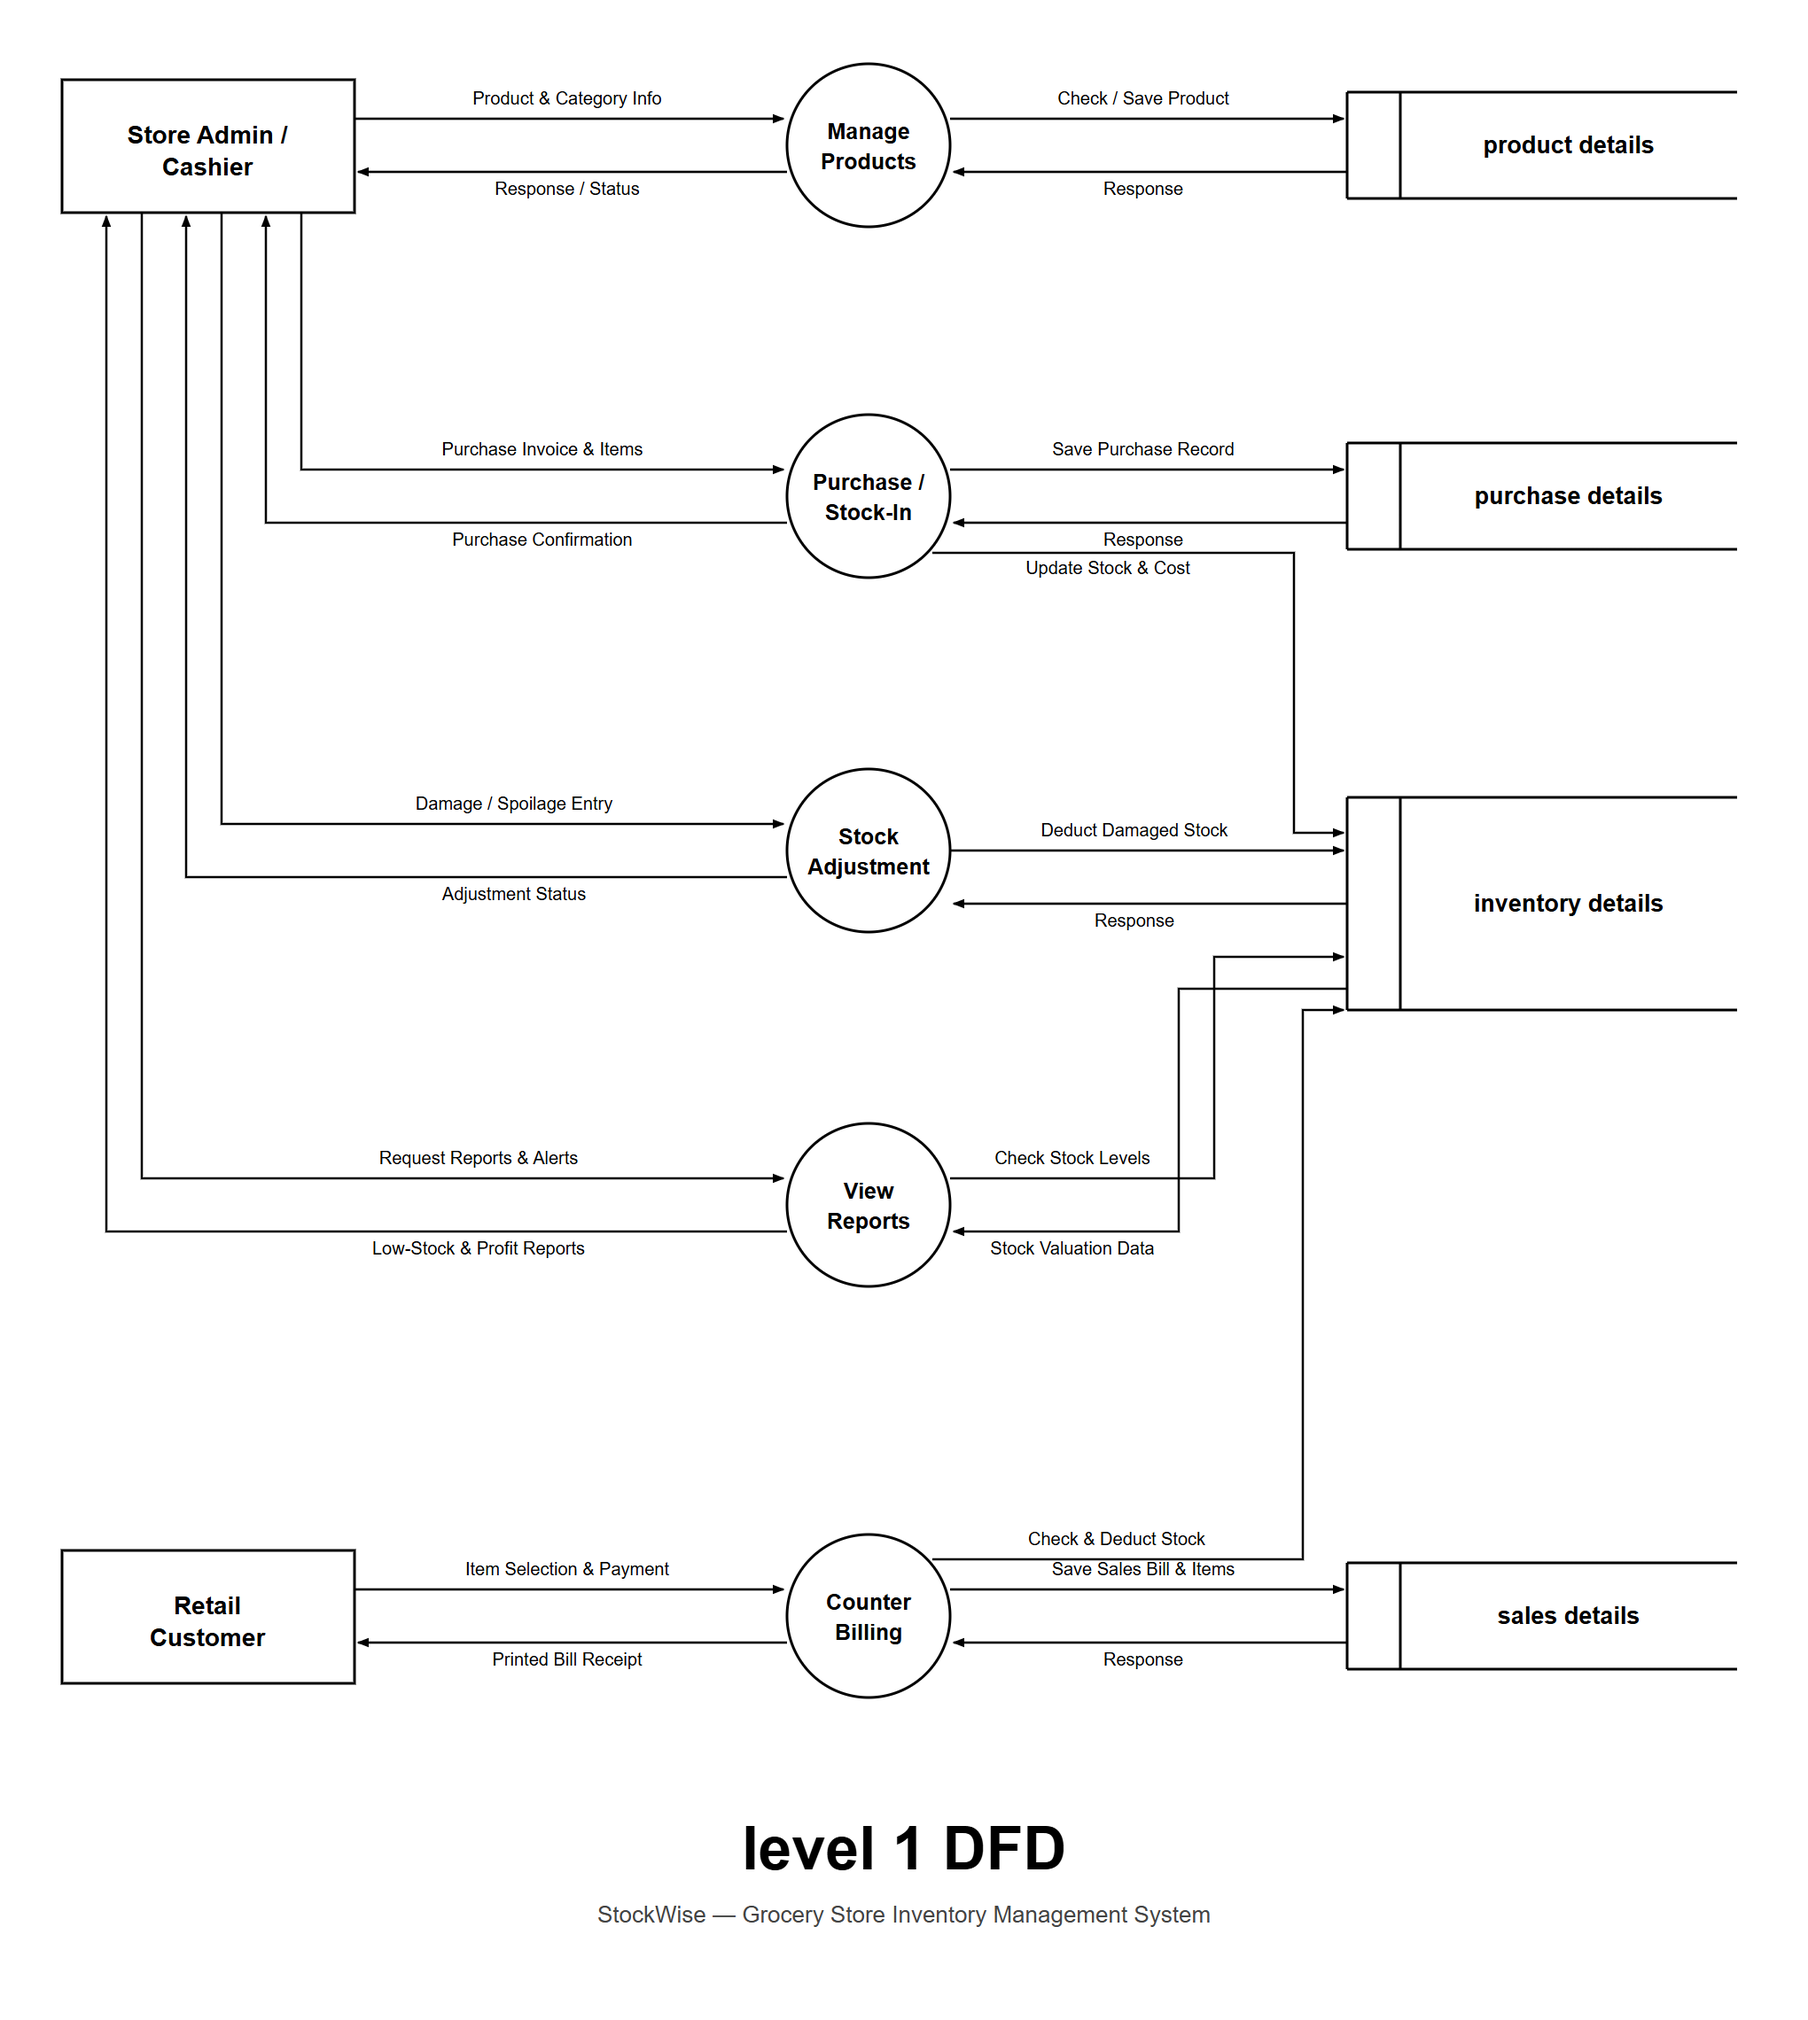
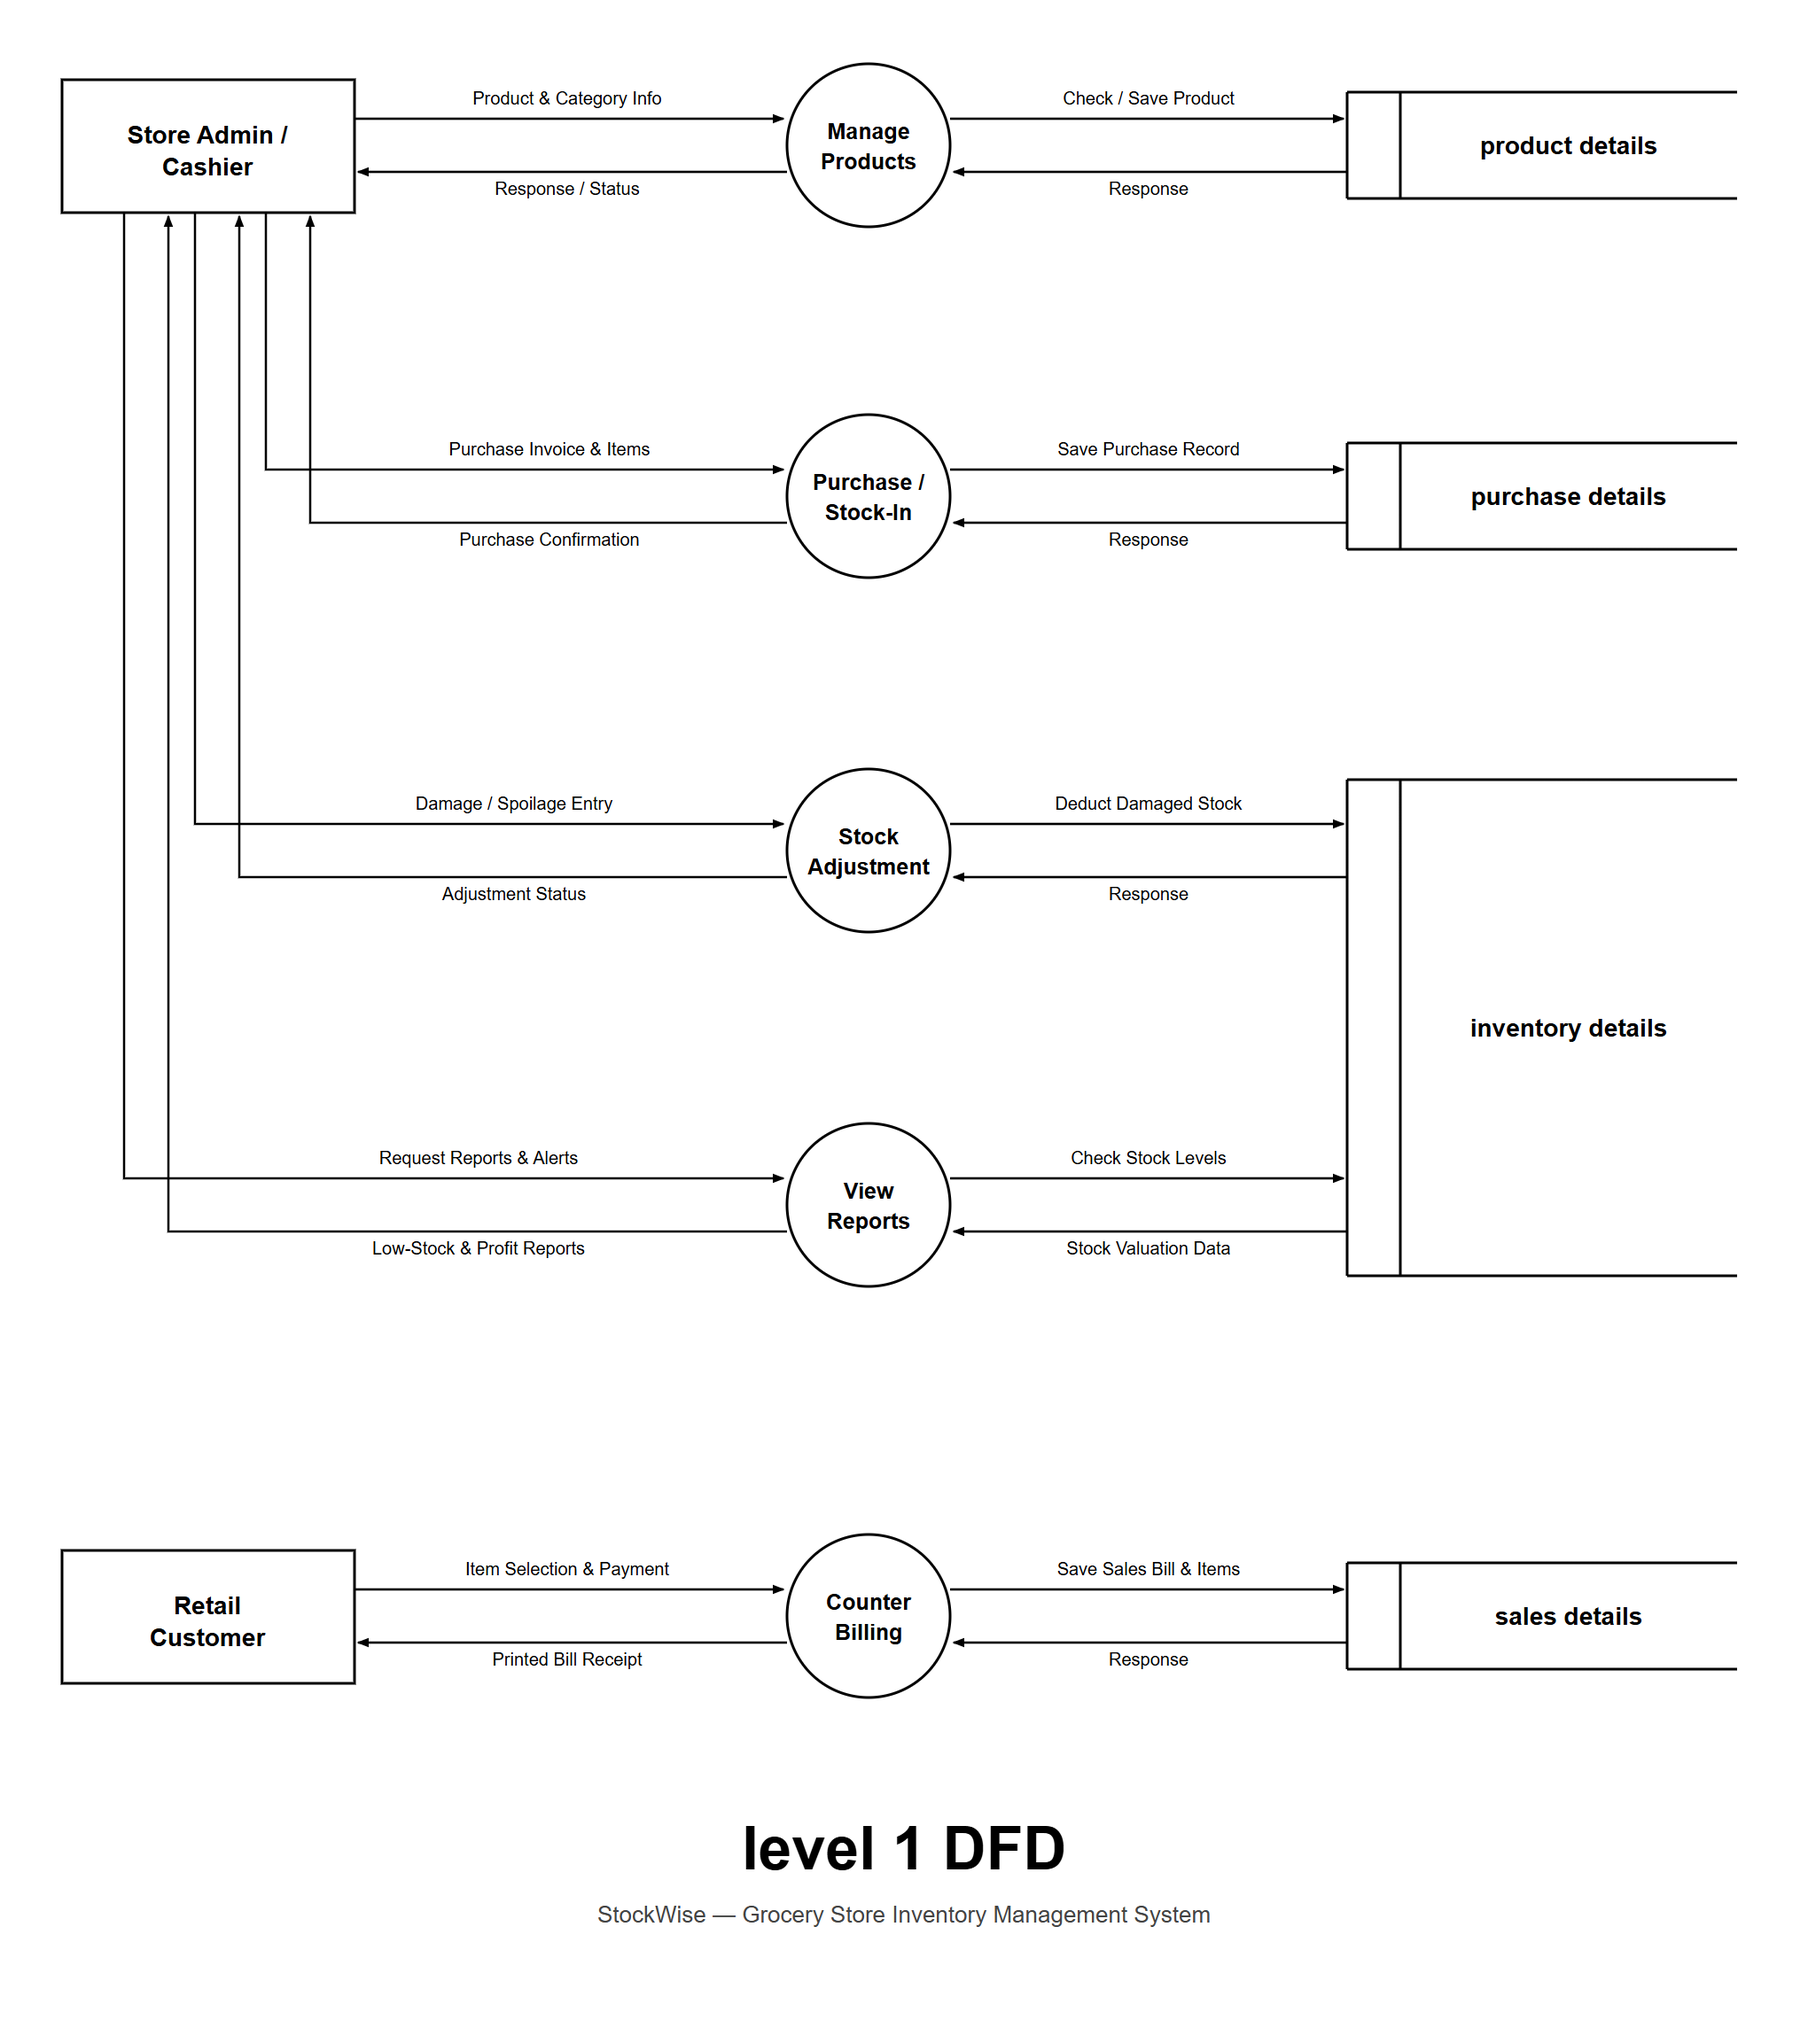
Eliminate all line crossings and overlapping flows in DFD Level 1

diff --git a/docs/dfd_level_1.html b/docs/dfd_level_1.html
@@ -56,12 +56,12 @@
 
     /* Data Stores (Open Rectangle with left compartment) */
     .store-line { stroke: #000000; stroke-width: 1.5; }
-    .store-text { font-family: Arial, Helvetica, sans-serif; font-size: 13.5px; font-weight: bold; fill: #000000; text-anchor: middle; dominant-baseline: central; }
+    .store-text { font-family: Arial, Helvetica, sans-serif; font-size: 14px; font-weight: bold; fill: #000000; text-anchor: middle; dominant-baseline: central; }
 
     /* Connectors & Clean Flow Labels */
     .flow-line { stroke: #000000; stroke-width: 1.3; fill: none; marker-end: url(#arrow); }
-    .flow-label { font-family: Arial, Helvetica, sans-serif; font-size: 10px; font-weight: 500; fill: #000000; paint-order: stroke fill; stroke: #ffffff; stroke-width: 3.5px; stroke-linejoin: round; }
-    .flow-label-center { font-family: Arial, Helvetica, sans-serif; font-size: 10px; font-weight: 500; fill: #000000; text-anchor: middle; paint-order: stroke fill; stroke: #ffffff; stroke-width: 3.5px; stroke-linejoin: round; }
+    .flow-label { font-family: Arial, Helvetica, sans-serif; font-size: 10px; font-weight: 500; fill: #000000; }
+    .flow-label-center { font-family: Arial, Helvetica, sans-serif; font-size: 10px; font-weight: 500; fill: #000000; text-anchor: middle; }
 
     /* Bottom Title matching reference */
     .dfd-title { font-family: Arial, Helvetica, sans-serif; font-size: 34px; font-weight: bold; fill: #000000; text-anchor: middle; }
@@ -144,13 +144,13 @@
     <text x="125" y="30" class="store-text">purchase details</text>
   </g>
 
-  <!-- Store 3: Inventory Details (y = 450 to 570, height = 120) -->
-  <g transform="translate(760, 450)">
+  <!-- Store 3: Inventory Details (y = 440 to 720, height = 280, spans Process 3 & 4) -->
+  <g transform="translate(760, 440)">
     <line x1="0" y1="0" x2="220" y2="0" class="store-line"/>
-    <line x1="0" y1="120" x2="220" y2="120" class="store-line"/>
-    <line x1="0" y1="0" x2="0" y2="120" class="store-line"/>
-    <line x1="30" y1="0" x2="30" y2="120" class="store-line"/>
-    <text x="125" y="60" class="store-text">inventory details</text>
+    <line x1="0" y1="280" x2="220" y2="280" class="store-line"/>
+    <line x1="0" y1="0" x2="0" y2="280" class="store-line"/>
+    <line x1="30" y1="0" x2="30" y2="280" class="store-line"/>
+    <text x="125" y="140" class="store-text">inventory details</text>
   </g>
 
   <!-- Store 4: Sales Details (y = 882) -->
@@ -165,6 +165,8 @@
 
   <!-- ============================================================== -->
   <!-- 4. DATA FLOWS: ADMIN -> PROCESSES (LEFT SIDE)                  -->
+  <!-- Inbound line is ALWAYS inside (closer to process) than outbound-->
+  <!-- ZERO LINE CROSSINGS!                                           -->
   <!-- ============================================================== -->
 
   <!-- Admin <-> Manage Products (Horizontal) -->
@@ -174,25 +176,25 @@
   <line x1="444" y1="97" x2="202" y2="97" class="flow-line"/>
   <text x="320" y="110" class="flow-label-center">Response / Status</text>
 
-  <!-- Admin <-> Purchase / Stock-In (Drop Bus at x=170, 150) -->
-  <path d="M 170 120 L 170 265 L 442 265" class="flow-line"/>
-  <text x="306" y="257" class="flow-label-center">Purchase Invoice &amp; Items</text>
+  <!-- Admin <-> Purchase / Stock-In (Outbound x=150, Inbound x=175) -->
+  <path d="M 150 120 L 150 265 L 442 265" class="flow-line"/>
+  <text x="310" y="257" class="flow-label-center">Purchase Invoice &amp; Items</text>
 
-  <path d="M 444 295 L 150 295 L 150 122" class="flow-line"/>
-  <text x="306" y="308" class="flow-label-center">Purchase Confirmation</text>
+  <path d="M 444 295 L 175 295 L 175 122" class="flow-line"/>
+  <text x="310" y="308" class="flow-label-center">Purchase Confirmation</text>
 
-  <!-- Admin <-> Stock Adjustment (Drop Bus at x=125, 105) -->
-  <path d="M 125 120 L 125 465 L 442 465" class="flow-line"/>
+  <!-- Admin <-> Stock Adjustment (Outbound x=110, Inbound x=135) -->
+  <path d="M 110 120 L 110 465 L 442 465" class="flow-line"/>
   <text x="290" y="457" class="flow-label-center">Damage / Spoilage Entry</text>
 
-  <path d="M 444 495 L 105 495 L 105 122" class="flow-line"/>
+  <path d="M 444 495 L 135 495 L 135 122" class="flow-line"/>
   <text x="290" y="508" class="flow-label-center">Adjustment Status</text>
 
-  <!-- Admin <-> View Reports (Drop Bus at x=80, 60) -->
-  <path d="M 80 120 L 80 665 L 442 665" class="flow-line"/>
+  <!-- Admin <-> View Reports (Outbound x=70, Inbound x=95) -->
+  <path d="M 70 120 L 70 665 L 442 665" class="flow-line"/>
   <text x="270" y="657" class="flow-label-center">Request Reports &amp; Alerts</text>
 
-  <path d="M 444 695 L 60 695 L 60 122" class="flow-line"/>
+  <path d="M 444 695 L 95 695 L 95 122" class="flow-line"/>
   <text x="270" y="708" class="flow-label-center">Low-Stock &amp; Profit Reports</text>
 
 
@@ -209,54 +211,47 @@
 
   <!-- ============================================================== -->
   <!-- 6. DATA FLOWS: PROCESSES <-> DATA STORES (RIGHT SIDE)          -->
+  <!-- 100% PURE HORIZONTAL LINES — ZERO BENDS, ZERO CROSSINGS!       -->
   <!-- ============================================================== -->
 
-  <!-- Process 1 <-> Product Details (Horizontal) -->
+  <!-- Process 1 <-> Product Details (Pure Horizontal) -->
   <line x1="536" y1="67" x2="758" y2="67" class="flow-line"/>
-  <text x="645" y="59" class="flow-label-center">Check / Save Product</text>
+  <text x="648" y="59" class="flow-label-center">Check / Save Product</text>
 
   <line x1="760" y1="97" x2="538" y2="97" class="flow-line"/>
-  <text x="645" y="110" class="flow-label-center">Response</text>
+  <text x="648" y="110" class="flow-label-center">Response</text>
 
 
-  <!-- Process 2 <-> Purchase Details (Horizontal) -->
+  <!-- Process 2 <-> Purchase Details (Pure Horizontal) -->
   <line x1="536" y1="265" x2="758" y2="265" class="flow-line"/>
-  <text x="645" y="257" class="flow-label-center">Save Purchase Record</text>
+  <text x="648" y="257" class="flow-label-center">Save Purchase Record</text>
 
   <line x1="760" y1="295" x2="538" y2="295" class="flow-line"/>
-  <text x="645" y="308" class="flow-label-center">Response</text>
-
-  <!-- Process 2 -> Inventory Details (Update Stock) - Drop at x=730 -->
-  <path d="M 526 312 L 730 312 L 730 470 L 758 470" class="flow-line"/>
-  <text x="625" y="324" class="flow-label-center">Update Stock &amp; Cost</text>
+  <text x="648" y="308" class="flow-label-center">Response</text>
 
 
-  <!-- Process 3 <-> Inventory Details (Stock Adjustment - Horizontal) -->
-  <line x1="536" y1="480" x2="758" y2="480" class="flow-line"/>
-  <text x="640" y="472" class="flow-label-center">Deduct Damaged Stock</text>
+  <!-- Process 3 <-> Inventory Details (Pure Horizontal) -->
+  <line x1="536" y1="465" x2="758" y2="465" class="flow-line"/>
+  <text x="648" y="457" class="flow-label-center">Deduct Damaged Stock</text>
 
-  <line x1="760" y1="510" x2="538" y2="510" class="flow-line"/>
-  <text x="640" y="523" class="flow-label-center">Response</text>
-
-
-  <!-- Process 4 <-> Inventory Details (View Reports - Step Up to Store 3) -->
-  <path d="M 536 665 L 685 665 L 685 540 L 758 540" class="flow-line"/>
-  <text x="605" y="657" class="flow-label-center">Check Stock Levels</text>
-
-  <path d="M 760 558 L 665 558 L 665 695 L 538 695" class="flow-line"/>
-  <text x="605" y="708" class="flow-label-center">Stock Valuation Data</text>
+  <line x1="760" y1="495" x2="538" y2="495" class="flow-line"/>
+  <text x="648" y="508" class="flow-label-center">Response</text>
 
 
-  <!-- Process 5 <-> Sales Details (Counter Billing - Horizontal) -->
+  <!-- Process 4 <-> Inventory Details (Pure Horizontal) -->
+  <line x1="536" y1="665" x2="758" y2="665" class="flow-line"/>
+  <text x="648" y="657" class="flow-label-center">Check Stock Levels</text>
+
+  <line x1="760" y1="695" x2="538" y2="695" class="flow-line"/>
+  <text x="648" y="708" class="flow-label-center">Stock Valuation Data</text>
+
+
+  <!-- Process 5 <-> Sales Details (Pure Horizontal) -->
   <line x1="536" y1="897" x2="758" y2="897" class="flow-line"/>
-  <text x="645" y="889" class="flow-label-center">Save Sales Bill &amp; Items</text>
+  <text x="648" y="889" class="flow-label-center">Save Sales Bill &amp; Items</text>
 
   <line x1="760" y1="927" x2="538" y2="927" class="flow-line"/>
-  <text x="645" y="940" class="flow-label-center">Response</text>
-
-  <!-- Process 5 -> Inventory Details (Check & Deduct Stock) - Rise at x=735 -->
-  <path d="M 526 880 L 735 880 L 735 570 L 758 570" class="flow-line"/>
-  <text x="630" y="872" class="flow-label-center">Check &amp; Deduct Stock</text>
+  <text x="648" y="940" class="flow-label-center">Response</text>
 
 
   <!-- ============================================================== -->
